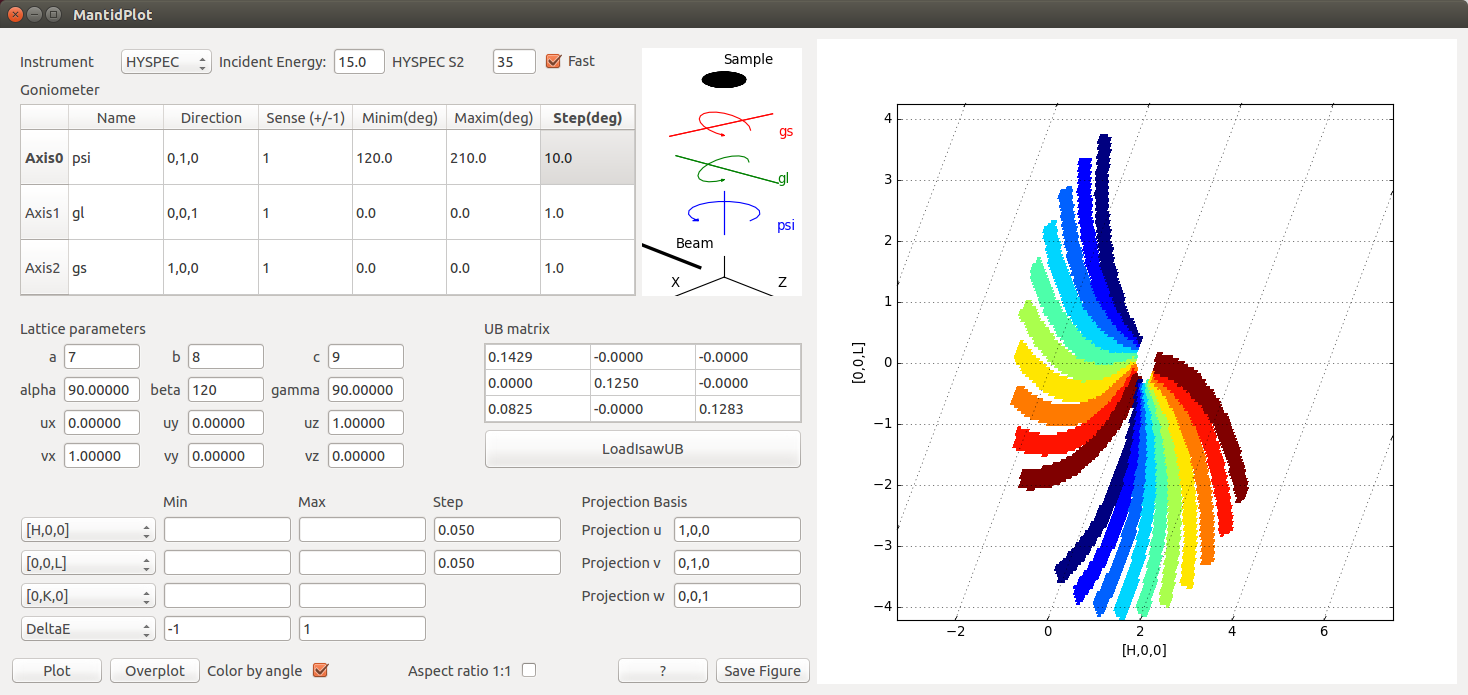
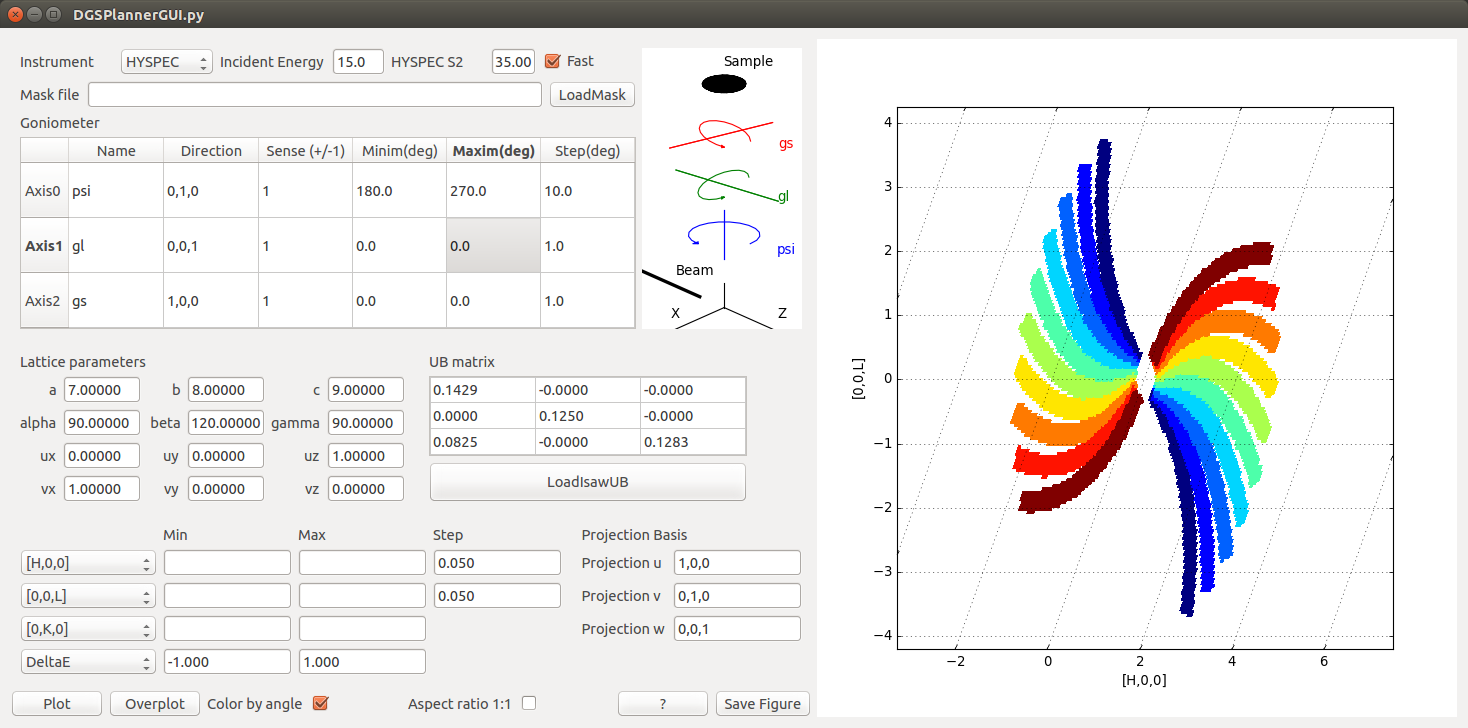
Add mask option. Refs #12453

diff --git a/Code/Mantid/scripts/DGSPlanner/DGSPlannerGUI.py b/Code/Mantid/scripts/DGSPlanner/DGSPlannerGUI.py
@@ -168,6 +168,16 @@ class DGSPlannerGUI(QtGui.QWidget):
                                               LogText=str(self.masterDict['S2']),LogType='Number Series')
                 mantid.simpleapi.LoadInstrument(Workspace="__temp_instrument",InstrumentName="HYSPEC")
             #masking
+            if self.masterDict.has_key('maskFilename') and len(self.masterDict['maskFilename'].strip())>0:
+                try:
+                    __maskWS=mantid.simpleapi.Load(self.masterDict['maskFilename'])
+                    mantid.simpleapi.MaskDetectors(Workspace="__temp_instrument",MaskedWorkspace=__maskWS)
+                except (ValueError,RuntimeError) as e:
+                    reply = QtGui.QMessageBox.critical(self, 'Error',"The following error has occured in loading the mask:\n"+
+                                                       str(e)+"\nDo you want to continue without mask?",
+                                                       QtGui.QMessageBox.Yes | QtGui.QMessageBox.No, QtGui.QMessageBox.No)
+                    if reply==QtGui.QMessageBox.No:
+                        return
             if self.masterDict['makeFast']:
                 sp=range(mantid.mtd["__temp_instrument"].getNumberHistograms())
                 tomask=sp[::4]+sp[1::4]+sp[2::4]
@@ -254,8 +264,8 @@ class DGSPlannerGUI(QtGui.QWidget):
                     tempintensity=  __mdws.getSignalArray()[:,:,0,0]
                     intensity[numpy.where( tempintensity>0)]=1.
         progressDialog.close()
-        x = numpy.linspace(__mdws.getDimension(0).getMinimum(), __mdws.getDimension(0).getMaximum(),intensity.shape[1] )
-        y = numpy.linspace(__mdws.getDimension(1).getMinimum(), __mdws.getDimension(1).getMaximum(),intensity.shape[0] )
+        x = numpy.linspace(__mdws.getDimension(0).getMinimum(), __mdws.getDimension(0).getMaximum(),intensity.shape[0] )
+        y = numpy.linspace(__mdws.getDimension(1).getMinimum(), __mdws.getDimension(1).getMaximum(),intensity.shape[1] )
         Y,X = numpy.meshgrid(y,x)
         xx, yy = self.tr(X, Y)
         Z=numpy.ma.masked_array(intensity,intensity==0)

diff --git a/Code/Mantid/scripts/DGSPlanner/InstrumentSetupWidget.py b/Code/Mantid/scripts/DGSPlanner/InstrumentSetupWidget.py
@@ -230,10 +230,11 @@ class InstrumentSetupWidget(QtGui.QWidget):
         self.layout().addWidget(self.canvas)
         #connections
         self.editS2.textEdited.connect(self.checkValidInputs)
-        self.editEi.textEdited.connect(self.checkValidInputs)
+        self.editMask.textEdited.connect(self.setMaskFile)
         self.combo.activated[str].connect(self.instrumentSelected)
         self.fast.stateChanged.connect(self.updateFast)
         self.buttonMask.clicked.connect(self.loadMaskFromFile)
+        self.editEi.textEdited.connect(self.checkValidInputs)
         #call instrumentSelected once
         self.instrumentSelected(self.instrument)
         #connect goniometer change with figure
@@ -326,6 +327,12 @@ class InstrumentSetupWidget(QtGui.QWidget):
         if not fileName:
             return
         self.editMask.setText(QString(fileName))
+        self.setMaskFile()
+
+    def setMaskFile(self):
+        filename=str(self.editMask.text())
+        d={'maskFilename':filename}
+        self.updateAll(**d)
 
     def checkValidInputs(self, *dummy_args, **dummy_kwargs):
         sender = self.sender()

diff --git a/Code/Mantid/Framework/MDAlgorithms/src/CalculateCoverageDGS.cpp b/Code/Mantid/Framework/MDAlgorithms/src/CalculateCoverageDGS.cpp
@@ -171,8 +171,10 @@ void CalculateCoverageDGS::exec() {
   std::vector<double> tt, phi;
   for (int i = 0; i < static_cast<int>(detIDS.size()); i++) {
     auto detector = instrument->getDetector(detIDS[i]);
-    tt.push_back(detector->getTwoTheta(V3D(0, 0, 0), V3D(0, 0, 1)));
-    phi.push_back(detector->getPhi());
+    if(!detector->isMasked()){
+        tt.push_back(detector->getTwoTheta(V3D(0, 0, 0), V3D(0, 0, 1)));
+        phi.push_back(detector->getPhi());
+    }
   }
 
   double ttmax = *(std::max_element(tt.begin(), tt.end()));

diff --git a/Code/Mantid/docs/source/interfaces/DGSPlanner.rst b/Code/Mantid/docs/source/interfaces/DGSPlanner.rst
@@ -26,6 +26,8 @@ of HYSPEC, a value for the **S2** angle is required. The monochromator to sample
 chosen to be msd=1798.5. 
 The **Incident Energy** is in mili-electron-Volts. The **Fast** option will use only 25% of the detectors
 to calculate the coverage.
+One can use a previously saved Mantid workspace containing a mask, the **Mask file** option,
+to eliminate from the coverage calculations detectors that are masked in the experiment.
 
 The **Goniometer** settings follow the Mantid convention (see :ref:`SetGoniometer <algm-SetGoniometer>`.
 The default values follow the goniometer description in `Horace <http://horace.isis.rl.ac.uk/Generating_SQW_files>`_.
